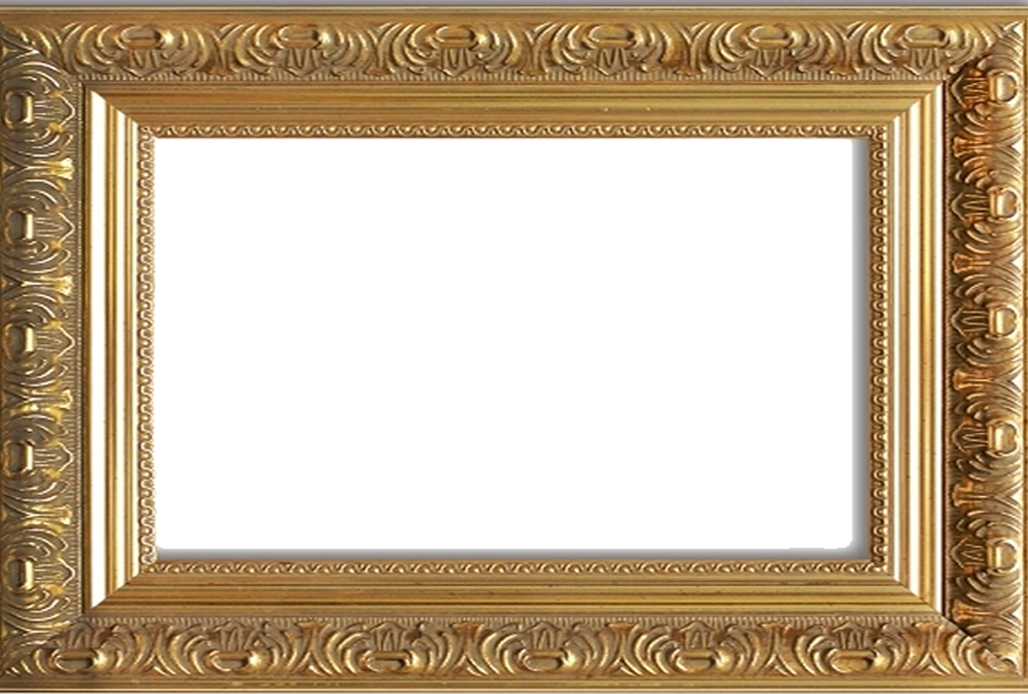
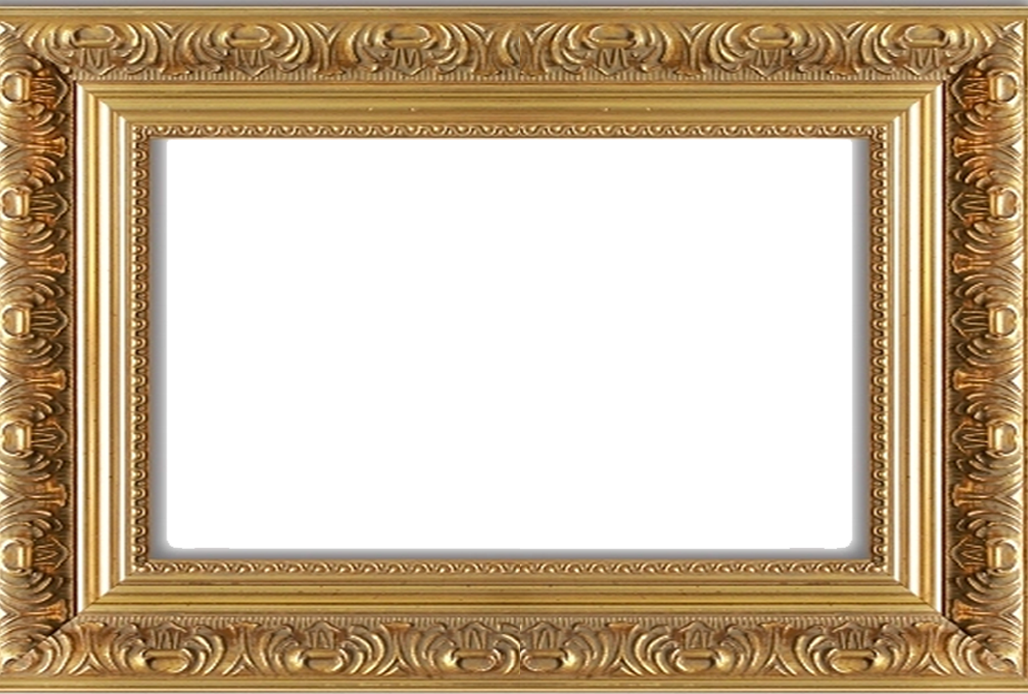
Fixed frame

Changed region(s): [[0.0, 0.0, 0.5292, 0.9986]]

diff --git a/sam_stone_dance/src/App.css b/sam_stone_dance/src/App.css
@@ -270,10 +270,10 @@ div.mr-auto.navbar-nav {
 #youtube {
     margin-top: 90px;
     border: 40px solid transparent;
-    border-image: url(assets/frame.png) 19% 15% 19% 15% round;
-    border-image-repeat: stretch;
-
+    border-image: url(assets/frame.png) 24% 17% round;
+    border-image-width: 60px;
 }
+
 
 
 /**********SAM CREATES**********/
